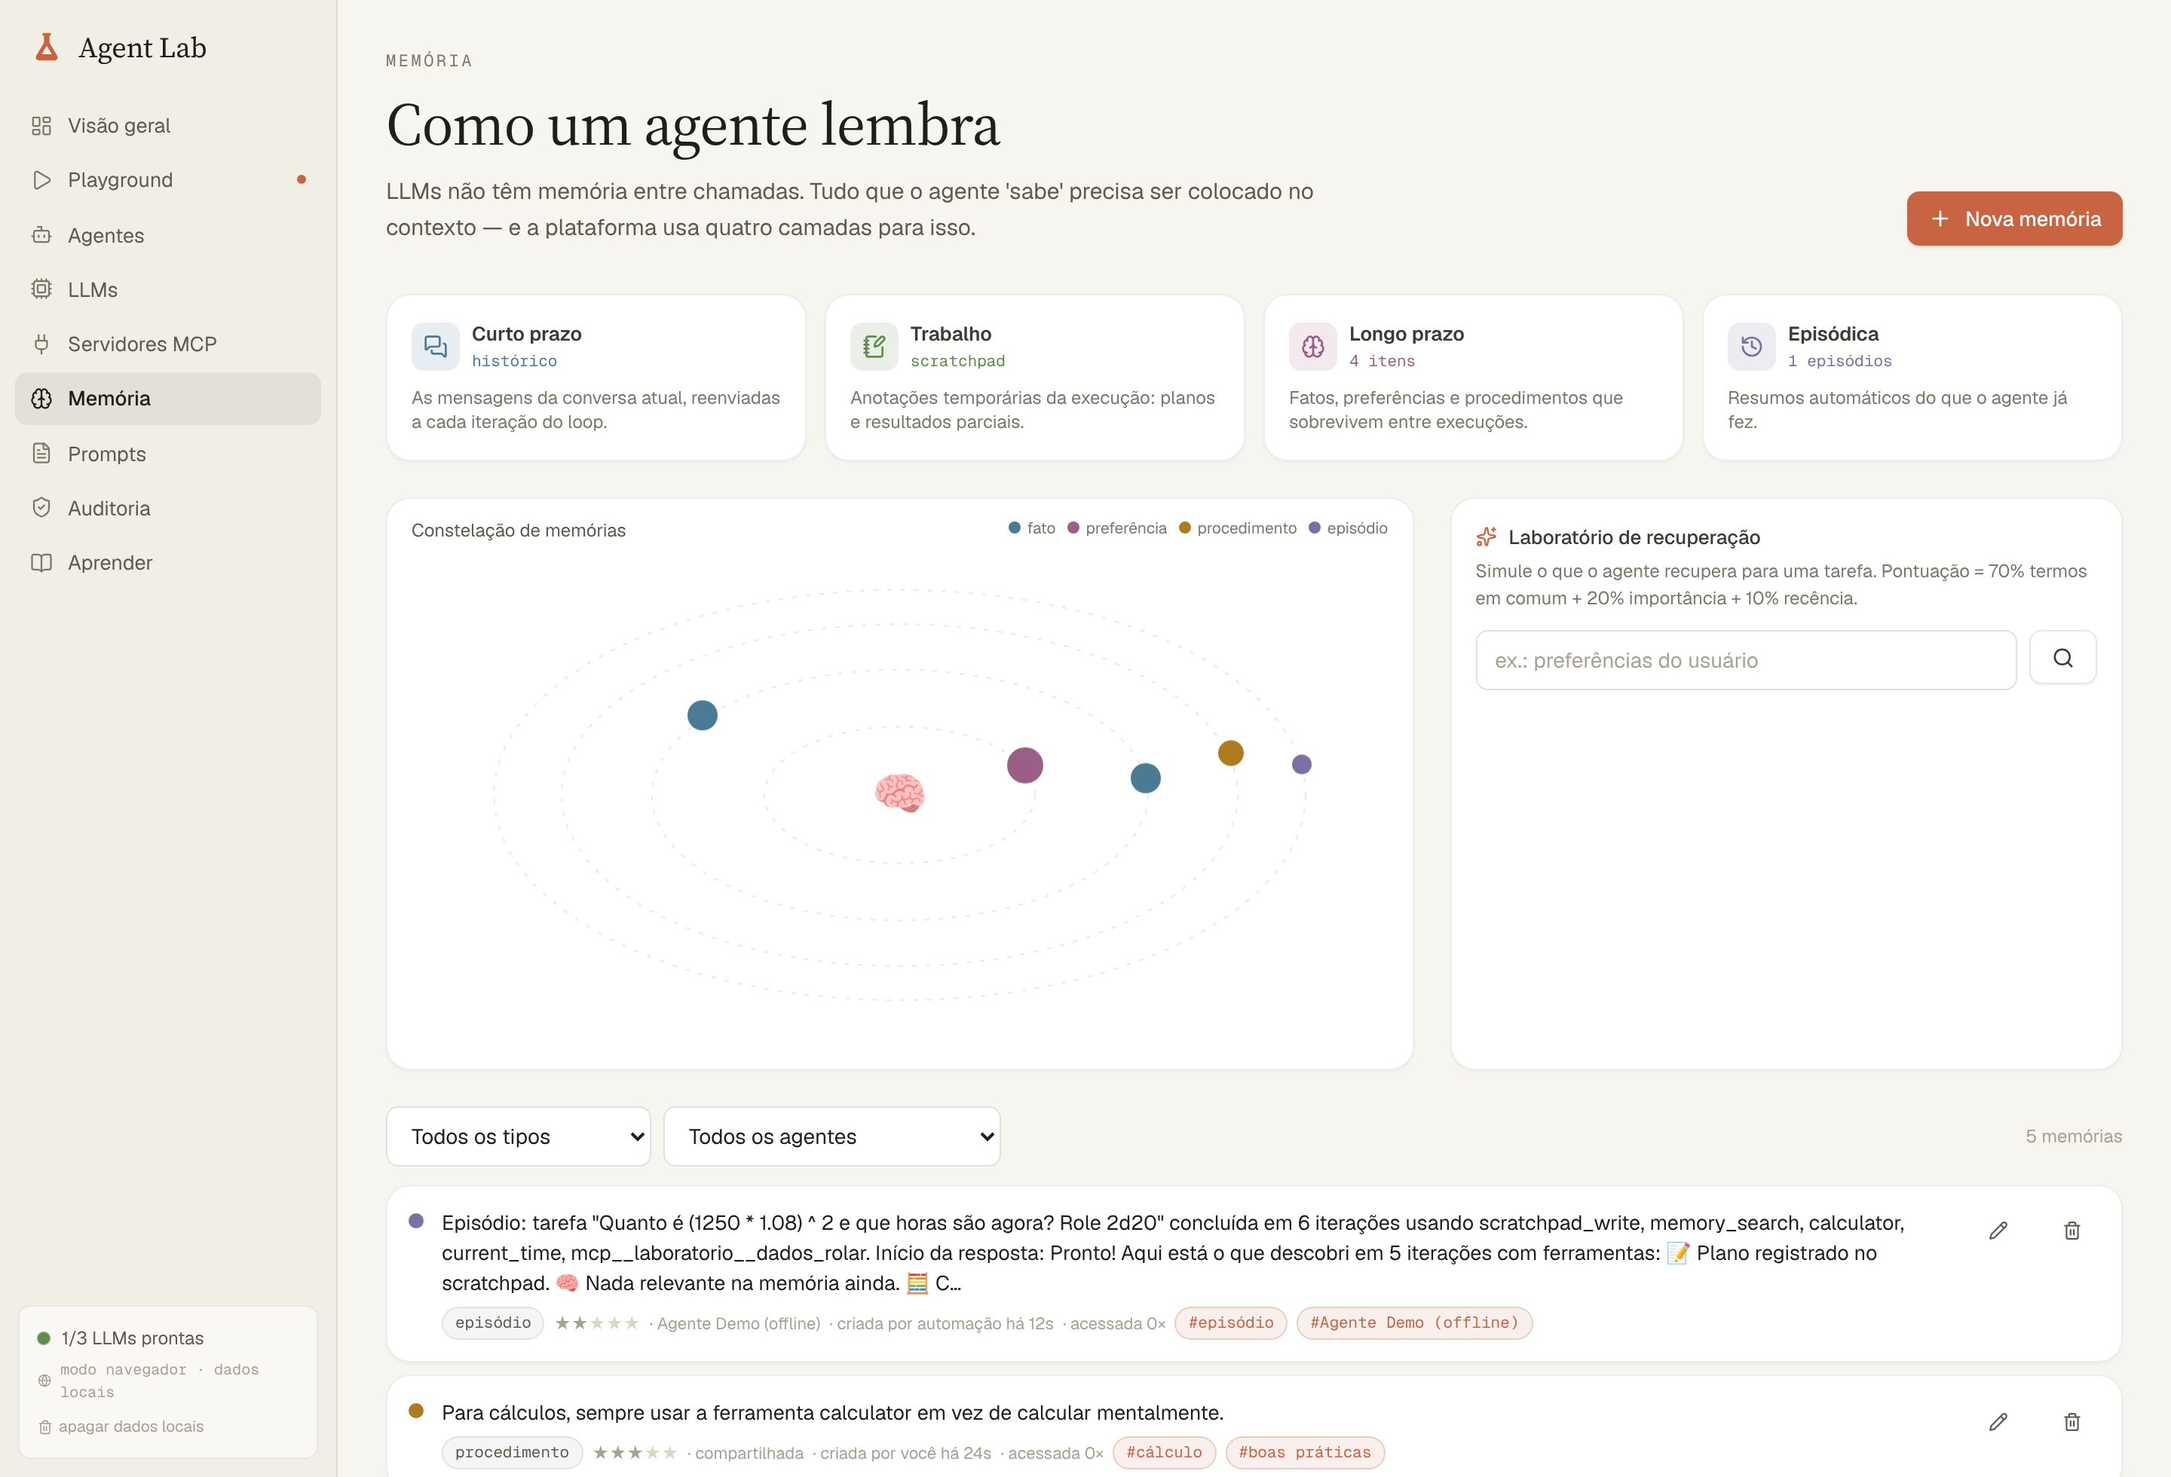
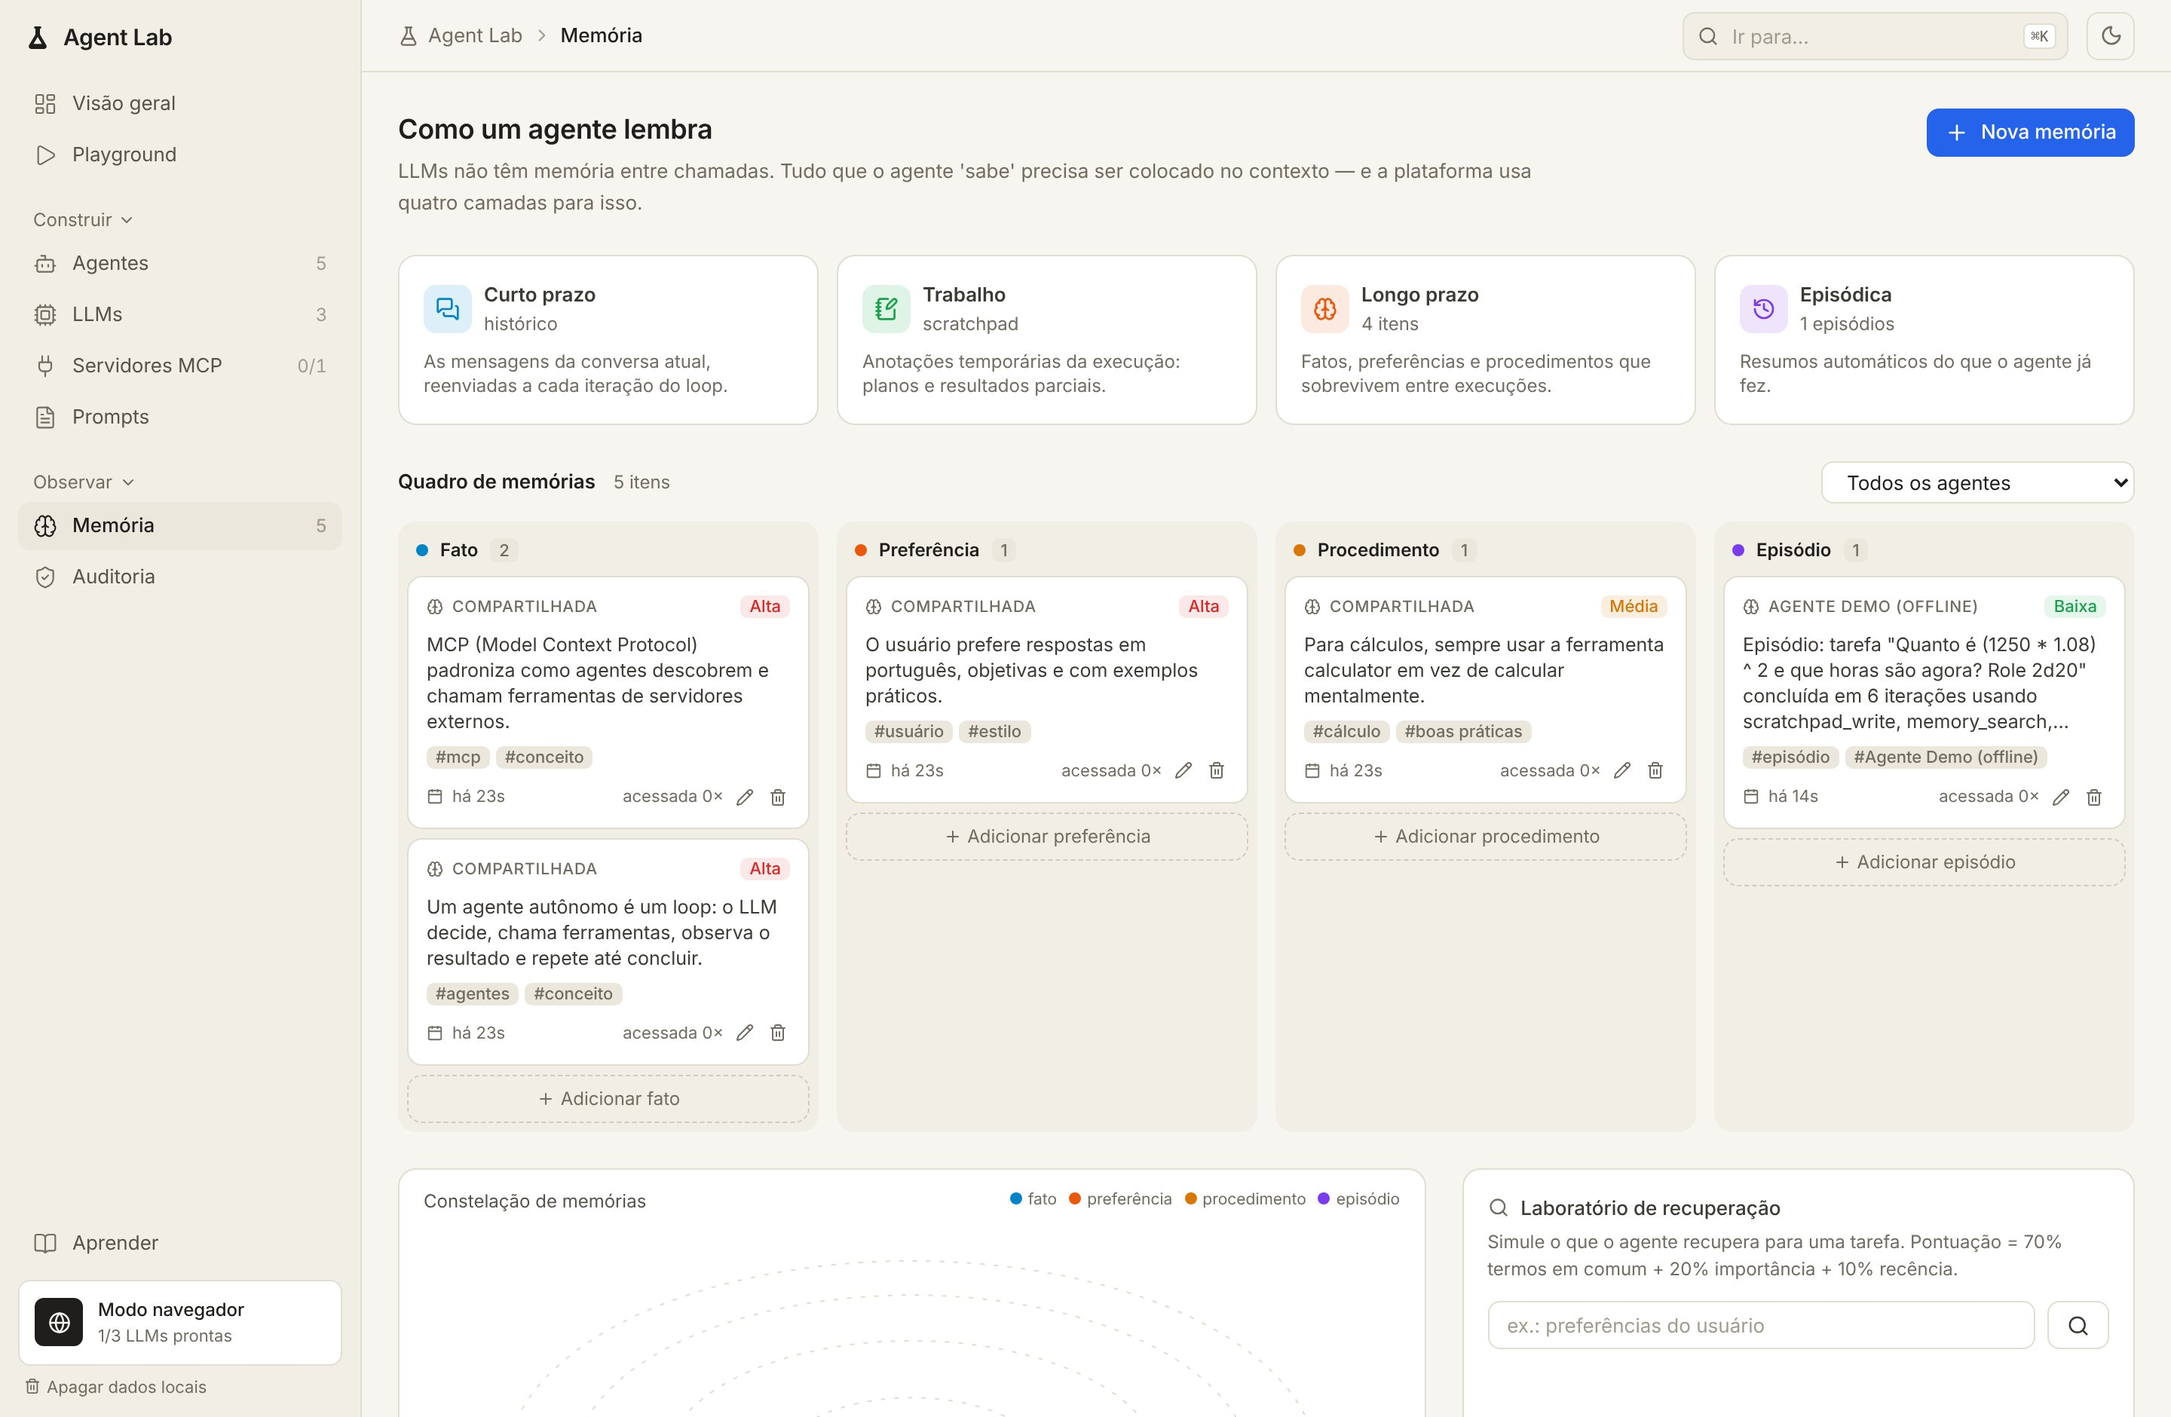
docs: configuração dos temas claro e escuro no guia de estilo
Tabelas de tokens por tema, cores semânticas no escuro, regras de
implementação da alternância e capturas atualizadas no README.

diff --git a/docs/style-guides/painel-saas-claro.md b/docs/style-guides/painel-saas-claro.md
@@ -1,4 +1,4 @@
-# Guia de estilo: Painel SaaS claro e denso
+# Guia de estilo: Painel SaaS denso (temas claro e escuro)
 
 Especificação visual reutilizável para dashboards e ferramentas internas. Pode ser entregue integralmente a um
 agente de código como instrução de estilo. Os valores de cor e medida são aproximações calibradas a partir de uma
@@ -8,17 +8,19 @@ referência visual e podem ser ajustados por produto.
 
 ## Prompt de aplicação
 
-> Aplique o estilo descrito neste documento à interface. Trata-se de um painel SaaS claro, neutro e denso:
-> fundo branco, bordas finas em cinza claro em vez de sombras, tipografia sans-serif pequena com hierarquia por
-> peso, um único azul como cor de ação e cores semânticas usadas apenas em etiquetas de status, ícones e barras de
-> progresso. Siga os tokens, a anatomia dos componentes e o checklist ao final. Não introduza gradientes, sombras
-> fortes, fontes serifadas ou cores fora da paleta.
+> Aplique o estilo descrito neste documento à interface. Trata-se de um painel SaaS neutro e denso, com dois
+> temas: claro (fundo em tom papel bege, cartões brancos) e escuro (grafite quente). Use bordas finas em vez de
+> sombras, tipografia sans-serif pequena com hierarquia por peso, um único azul como cor de ação e cores
+> semânticas apenas em etiquetas de status, ícones e barras de progresso. Implemente as cores como variáveis de
+> CSS, com alternância de tema pelo usuário e respeito à preferência do sistema. Siga os tokens, a anatomia dos
+> componentes e o checklist ao final. Não introduza gradientes, sombras fortes, fontes serifadas ou cores fora da
+> paleta.
 
 ---
 
 ## 1. Princípios
 
-1. **Neutro primeiro.** Quase tudo é branco e cinza; a cor aparece só onde carrega significado (status, categoria, ação).
+1. **Neutro primeiro.** Quase tudo usa os tons neutros do tema; a cor aparece só onde carrega significado (status, categoria, ação).
 2. **Bordas, não sombras.** Superfícies são separadas por linhas de 1px. Sombras, quando existem, são quase imperceptíveis.
 3. **Densidade controlada.** Texto base de 13px, controles de 32px de altura, espaçamento em múltiplos de 4px.
 4. **Hierarquia por peso e cor**, não por tamanho. Títulos são pequenos (15–18px) e semibold; números de destaque são o único texto grande.
@@ -41,46 +43,68 @@ referência visual e podem ser ajustados por produto.
 └─────────────┴──────────────────────────────────────────────────────────┘
 ```
 
-- Fundo da área de conteúdo: branco. Sidebar: branco ou cinza levíssimo, separada por borda de 1px.
+- Fundo da área de conteúdo: `bg` do tema. Sidebar: `bg-subtle`, separada por borda de 1px. Cartões: `surface`.
 - Barra superior com 48–52px de altura, borda inferior de 1px.
 - Conteúdo com padding horizontal de 20–24px e largura máxima de ~1440px.
 
 ## 3. Cores
 
-### Neutros (escala zinc/slate)
+As cores são definidas como variáveis de CSS e trocadas por tema. A estrutura e os componentes são idênticos nos
+dois temas; só os valores mudam.
 
-| Token | Hex | Uso |
-|---|---|---|
-| `bg` | `#FFFFFF` | Fundo do conteúdo, cartões |
-| `bg-subtle` | `#FAFAFA` | Sidebar, fundo de colunas do quadro |
-| `bg-muted` | `#F4F4F5` | Item ativo da navegação, aba ativa, hover |
-| `border` | `#E4E4E7` | Bordas de cartões, inputs, divisores |
-| `border-strong` | `#D4D4D8` | Bordas em hover, botões secundários |
-| `text-muted` | `#A1A1AA` | Placeholders, metadados terciários |
-| `text-secondary` | `#71717A` | Rótulos, legendas, subtítulos |
-| `text` | `#3F3F46` | Texto de corpo |
-| `text-strong` | `#18181B` | Títulos, valores, itens ativos |
+### Neutros por tema
+
+| Token | Claro (papel) | Escuro (grafite) | Uso |
+|---|---|---|---|
+| `bg` | `#F7F5EF` | `#262624` | Fundo da área de conteúdo e da barra superior |
+| `bg-subtle` | `#F1EEE6` | `#1F1E1D` | Sidebar, fundo de colunas do quadro, blocos de código |
+| `bg-muted` | `#EBE7DC` | `#393937` | Item ativo da navegação, aba ativa, hover |
+| `surface` | `#FFFFFF` | `#30302E` | Cartões, campos, menus e modais |
+| `border` | `#E2DDD1` | `#41403C` | Bordas de cartões, inputs, divisores |
+| `border-strong` | `#D2CBBD` | `#55534E` | Bordas em hover, botões secundários |
+| `text-muted` | `#A39C8E` | `#8A877F` | Placeholders, metadados terciários |
+| `text-secondary` | `#716B60` | `#A7A49B` | Rótulos, legendas, subtítulos |
+| `text` | `#3D3A34` | `#DFDCD3` | Texto de corpo |
+| `text-strong` | `#1F1E1C` | `#F5F4EF` | Títulos, valores, itens ativos |
+
+No tema claro, os cartões brancos se destacam sobre o fundo bege. No escuro, os cartões ficam um tom acima do fundo
+e a sidebar um tom abaixo.
 
 ### Ação
 
-| Token | Hex | Uso |
-|---|---|---|
-| `primary` | `#2563EB` | Botão principal, links, foco |
-| `primary-hover` | `#1D4ED8` | Hover do botão principal |
-| `primary-soft` | `#EFF6FF` | Fundo de seleção |
-
-### Semânticas (sempre em versão "texto forte + fundo suave")
-
-| Estado | Texto | Fundo | Exemplos de etiqueta |
+| Token | Claro | Escuro | Uso |
 |---|---|---|---|
-| Sucesso | `#15803D` | `#F0FDF4` | Pago, Concluído, Depositado |
-| Atenção | `#B45309` | `#FFFBEB` | Pendente, Em andamento |
-| Erro | `#B91C1C` | `#FEF2F2` | Atrasado, Falhou |
-| Destaque | `#6D28D9` | `#F5F3FF` | No prazo, Em análise |
-| Laranja | `#C2410C` | `#FFF7ED` | Prioridade, Investimentos |
+| `primary` | `#2563EB` | `#4B8BF5` | Botão principal, links, foco |
+| `primary-hover` | `#1D4ED8` | `#1D4ED8` | Hover do botão principal |
+| `primary-soft` | `primary` a 10–20% | `primary` a 20% | Fundo de seleção, anel de foco |
+
+### Semânticas
+
+Cada estado tem uma cor por tema. A etiqueta usa o texto na cor sólida e o fundo na mesma cor com 10–12% de opacidade,
+o que funciona sobre qualquer superfície.
+
+| Estado | Claro | Escuro | Exemplos de etiqueta |
+|---|---|---|---|
+| Sucesso | `#16A34A` | `#4ADE80` | Pago, Concluído, Pronta |
+| Atenção | `#D97706` | `#FBBF24` | Pendente, Em andamento, Sem chave |
+| Erro | `#DC2626` | `#F87171` | Atrasado, Falhou |
+| Destaque | `#7C3AED` | `#A78BFA` | No prazo, Em análise |
+| Laranja | `#EA580C` | `#FB923C` | Prioridade, Integrações |
+| Informação | `#0284C7` | `#38BDF8` | Entrada do usuário |
 
 Barras de progresso e gráficos usam a cor sólida correspondente (`#22C55E`, `#F97316`, `#8B5CF6`, `#3B82F6`).
 Ícones de categoria podem usar quadrados coloridos sólidos (preto, azul, laranja, verde) com ícone branco.
+
+### Implementação dos temas
+
+- Declare os tokens do tema claro como padrão (`:root`) e sobrescreva-os em `:root[data-theme="escuro"]`, incluindo
+  `color-scheme: dark` para que controles nativos (selects, barras de rolagem) acompanhem.
+- Nenhum componente deve usar cor fixa (`#fff`, `white`, `black` com opacidade): sempre os tokens acima.
+- Tema inicial: a escolha salva pelo usuário; sem escolha, a preferência do sistema (`prefers-color-scheme`).
+- Botão de alternância na barra superior (ícone de lua no claro, de sol no escuro), com rótulo acessível.
+- Salve a escolha localmente e aplique o tema antes da primeira renderização, para evitar piscar.
+- Atualize a meta tag `theme-color` com o `bg` do tema ativo.
+- Sobreposição de modais: preto a 50% nos dois temas.
 
 ## 4. Tipografia
 
@@ -115,20 +139,22 @@ Barras de progresso e gráficos usam a cor sólida correspondente (`#22C55E`, `#
 - Rodapé: links de ajuda e configurações, e um cartão do usuário (avatar, nome, e-mail) com borda.
 
 ### Barra superior
+- Fundo `bg`, borda inferior `border`.
 - Breadcrumb com ícones pequenos: níveis anteriores em `text-secondary`, nível atual em `text-strong` 500.
 - Campo de busca de ~260px com ícone de lupa e atalho `⌘K` em etiqueta de teclado (borda, 11px).
 - Ações secundárias como botões de texto com ícone (Exportar, Compartilhar).
+- Botão de ícone para alternar o tema (32px, borda `border`).
 - Um único botão principal sólido em `primary`, à direita.
 
 ### Botões
 - **Principal:** fundo `primary`, texto branco 13px 500, altura 32px, raio 8px, padding horizontal 12px.
-- **Secundário:** fundo branco, borda `border`, texto `text`, ícone à esquerda.
+- **Secundário:** fundo `surface`, borda `border`, texto `text`, ícone à esquerda.
 - **Fantasma:** sem borda, texto `text-secondary`, fundo `bg-muted` no hover.
 - **Ícone:** quadrado de 28–32px, raio 8px, borda opcional.
 - **Adicionar (fim de lista):** largura total, borda tracejada `border`, texto 12px `text-secondary`, "+ Adicionar item".
 
 ### Campos
-- Altura 32px, borda `border`, fundo branco, texto 13px; foco com borda `primary` e anel de 3px em `primary-soft`.
+- Altura 32px, borda `border`, fundo `surface`, texto 13px; foco com borda `primary` e anel de 3px em `primary-soft`.
 
 ### Cartão de KPI
 - Borda `border`, raio 12px, padding 16px.
@@ -156,13 +182,13 @@ Barras de progresso e gráficos usam a cor sólida correspondente (`#22C55E`, `#
 │ 📅 23 out 2026        meta curta │  rodapé 11px text-secondary
 └──────────────────────────────────┘
 ```
-- Fundo branco, borda `border`, raio 8–10px, padding 12px.
+- Fundo `surface`, borda `border`, raio 8–10px, padding 12px.
 
 ### Etiquetas de status
 - Fundo suave + texto forte da mesma família semântica, 10–11px 500, raio 4–6px, padding 2px 6px. Sem borda ou com borda tênue da mesma cor.
 
 ### Avatares
-- Círculos de 20–24px sobrepostos (−6px), borda branca de 2px, e um contador `+2` em círculo neutro.
+- Círculos de 20–24px sobrepostos (−6px), borda de 2px na cor `surface`, e um contador `+2` em círculo neutro.
 
 ### Gráficos
 - Minimalistas, sem eixos nem grades: barras finas (2–3px) em azul, histograma de pontos em laranja, barras de progresso em verde.
@@ -196,7 +222,9 @@ Barras de progresso e gráficos usam a cor sólida correspondente (`#22C55E`, `#
 ## 11. Checklist de aplicação
 
 - [ ] Fonte única sans-serif (Inter) com números tabulares.
-- [ ] Fundo branco, sidebar `#FAFAFA`, bordas `#E4E4E7`, sem gradientes.
+- [ ] Cores como variáveis de CSS, com tema claro (papel) e escuro (grafite); nenhuma cor fixa nos componentes.
+- [ ] Alternância de tema na barra superior, escolha salva e respeito à preferência do sistema.
+- [ ] Tema claro: fundo `#F7F5EF`, sidebar `#F1EEE6`, cartões brancos, bordas `#E2DDD1`; sem gradientes.
 - [ ] Barra superior com breadcrumb, busca com `⌘K` e um único botão principal azul.
 - [ ] Navegação com item ativo em `bg-muted`, grupos com rótulo e contadores.
 - [ ] Cabeçalho de página com título de 16–18px e subtítulo de 12px.
@@ -204,4 +232,5 @@ Barras de progresso e gráficos usam a cor sólida correspondente (`#22C55E`, `#
 - [ ] Status como etiquetas suaves (fundo claro + texto forte), 10–11px.
 - [ ] Listas em cartões com o mesmo esqueleto: categoria, título, valor, rodapé.
 - [ ] Controles com 32px de altura e raio de 8px; foco visível.
+- [ ] Contraste conferido nos dois temas (texto secundário legível sobre `bg` e `surface`).
 - [ ] Nenhuma página com rolagem horizontal em telas de 320px.

diff --git a/.claude/skills/agent-lab-ui/SKILL.md b/.claude/skills/agent-lab-ui/SKILL.md
@@ -6,13 +6,16 @@ description: Guia do sistema visual do Agent Lab. Consultar ao criar ou alterar 
 # Sistema visual do Agent Lab
 
 O estilo segue a especificação [`docs/style-guides/painel-saas-claro.md`](../../../docs/style-guides/painel-saas-claro.md):
-painel claro e denso, superfícies brancas separadas por bordas de 1px, tipografia Inter e azul como única cor de ação.
+painel denso com tema claro (papel bege, cartões brancos) e escuro (grafite quente), superfícies separadas por bordas
+de 1px, tipografia Inter e azul como única cor de ação.
 
 ## Mapeamento para o código
 
 | Conceito do guia | Implementação |
 |---|---|
-| Tokens de cor | `web/src/index.css` (`ink-950` = branco ... `ink-100` = texto forte; `accent` = azul) |
+| Tokens de cor | `web/src/index.css`: tema claro em `@theme`, escuro em `:root[data-theme="escuro"]` (`ink-950` = fundo, `ink-100` = texto forte, `surface` = cartões, `accent` = azul) |
+| Seleção e persistência do tema | `web/src/lib/theme.ts` (preferência salva → preferência do sistema; `?tema=claro\|escuro`) |
+| Alternância de tema | botão na `TopBar` |
 | Sidebar com grupos e contadores | `web/src/components/Sidebar.tsx` |
 | Barra superior (breadcrumb, busca ⌘K, ação principal) | `web/src/components/TopBar.tsx` |
 | Botões, campos, etiquetas de status, modal | `web/src/components/ui.tsx` |
@@ -24,6 +27,7 @@ painel claro e denso, superfícies brancas separadas por bordas de 1px, tipograf
 
 - Cada página começa com `PageHeader` (título de 18px e subtítulo de 13px); o rótulo de contexto aparece no breadcrumb.
 - No máximo um botão `primary` por tela.
+- Nenhuma cor fixa em componentes (`bg-white`, `#fff`, `black/…`): usar `surface` e a escala `ink`, para funcionar nos dois temas.
 - Etiquetas de status usam `Badge` com a cor semântica; etiquetas informativas usam `Badge` neutro.
 - Animações apenas para indicar mudança ou atividade (execução do agente, fluxo no grafo, entrada de itens).
 - Nenhuma página pode exceder a largura da tela: `node web/scripts/check-mobile.cjs` roda no CI e bloqueia a publicação.

diff --git a/README.md b/README.md
@@ -29,6 +29,8 @@ OpenAI Chat Completions (OpenAI, OpenRouter, Groq, Ollama) e um modelo simulado 
   <img src="docs/screenshots/auditoria.jpg" width="49%" alt="Auditoria" />
 </p>
 
+<p><img src="docs/screenshots/playground-escuro.jpg" alt="Playground no tema escuro" /></p>
+
 ## Versão online
 
 A interface é publicada no GitHub Pages pelo workflow [`deploy-pages.yml`](.github/workflows/deploy-pages.yml):
@@ -149,9 +151,11 @@ para novos servidores e também pode ser executado como processo stdio (`mcp-ser
 
 ## Design
 
-O sistema visual está especificado em [`.claude/skills/agent-lab-ui`](.claude/skills/agent-lab-ui/SKILL.md). As
-referências consultadas estão em [`docs/pesquisa-visual.md`](docs/pesquisa-visual.md) e os estudos de layout em
-[`docs/design-concepts`](docs/design-concepts/README.md).
+A interface tem tema claro (tom papel) e escuro (grafite), alternáveis pelo botão na barra superior; sem escolha
+salva, segue a preferência do sistema. A especificação completa, reutilizável em outros projetos, está em
+[`docs/style-guides/painel-saas-claro.md`](docs/style-guides/painel-saas-claro.md), e o mapeamento para o código em
+[`.claude/skills/agent-lab-ui`](.claude/skills/agent-lab-ui/SKILL.md). As referências consultadas estão em
+[`docs/pesquisa-visual.md`](docs/pesquisa-visual.md) e os estudos de layout em [`docs/design-concepts`](docs/design-concepts/README.md).
 
 **Stack:** Node.js, Express, TypeScript, `@anthropic-ai/sdk`, `@modelcontextprotocol/sdk` · React 19, Vite,
 Tailwind CSS 4, Motion, React Flow.
